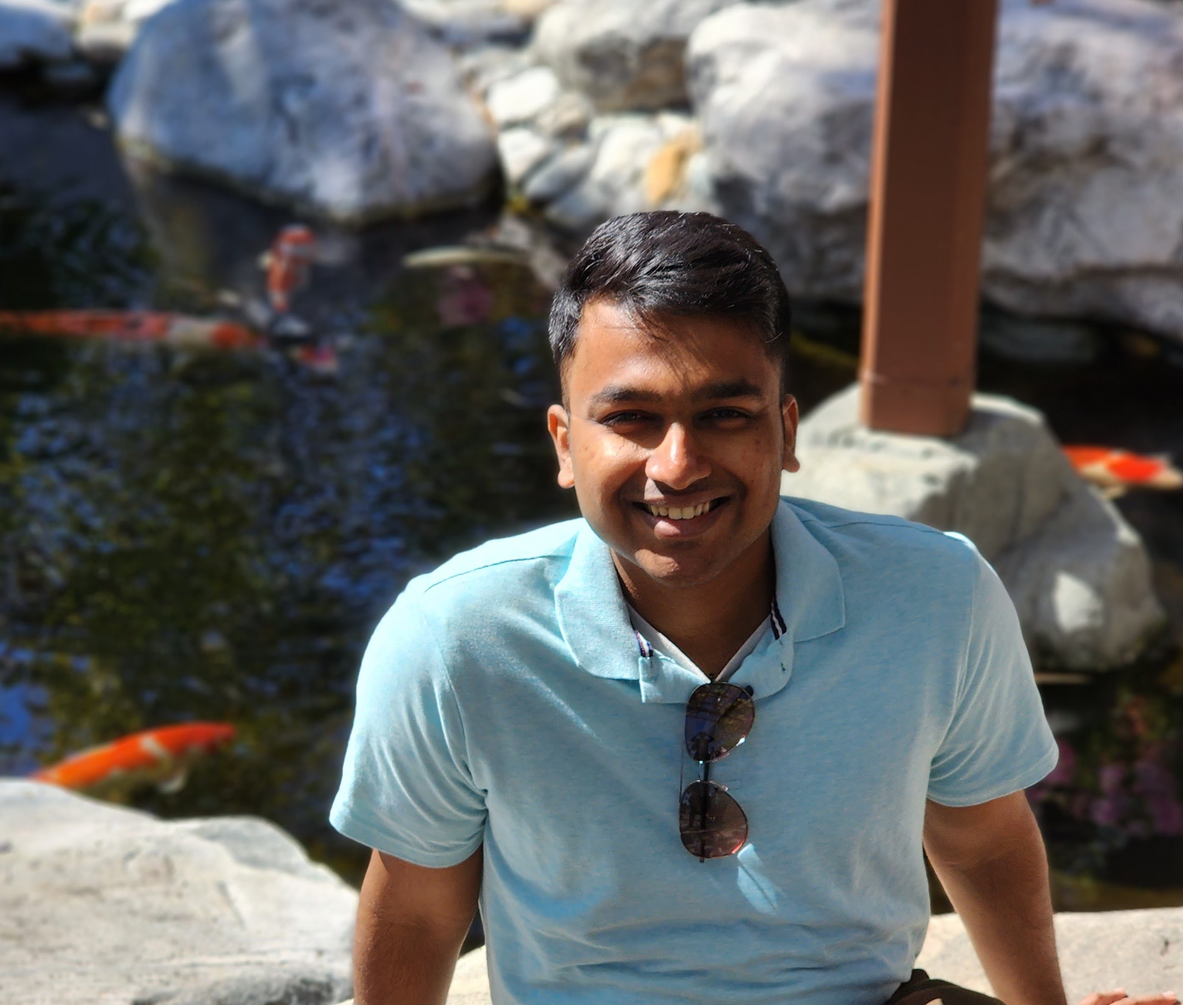
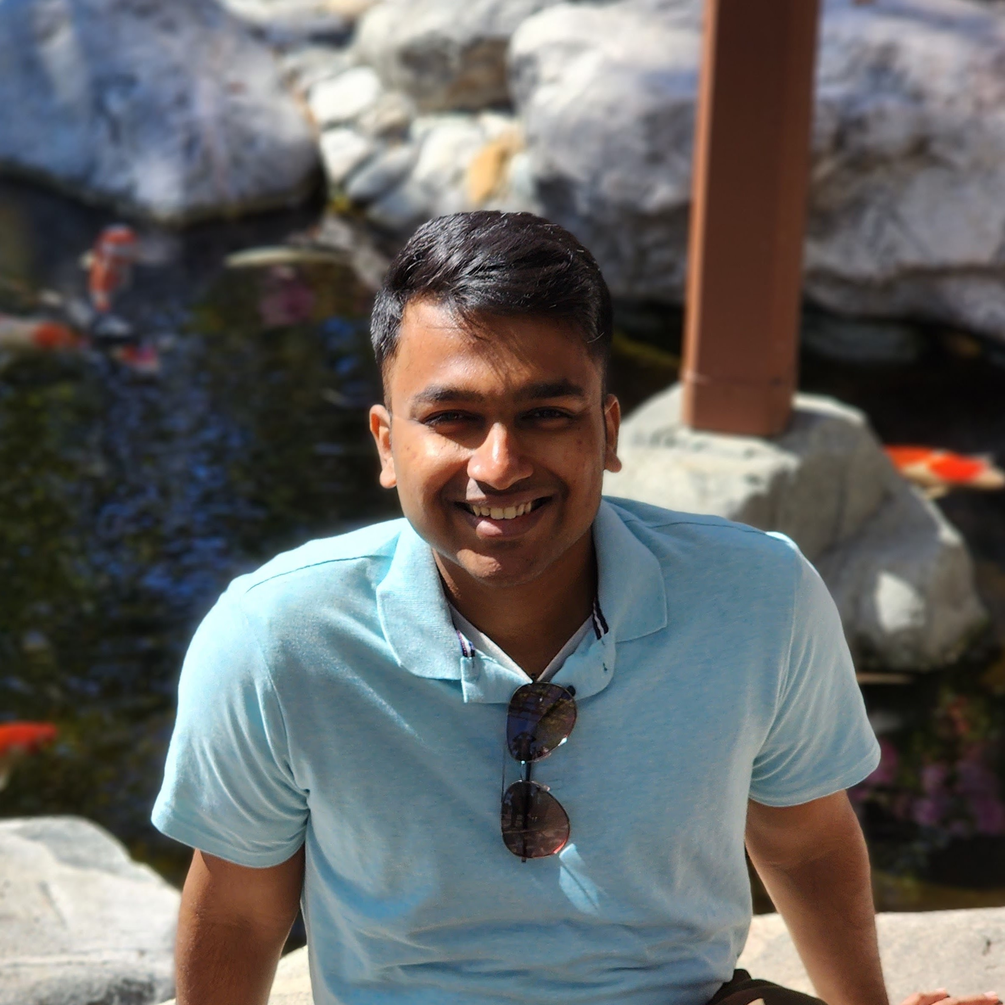
fix some image ratio and extension

diff --git a/_staffers/GiorgiaNicolaou.md b/_staffers/GiorgiaNicolaou.md
@@ -3,7 +3,7 @@ name: Giorgia Nicolaou
 role: TA
 pronouns: she/her
 email: gnicolaou@ucsd.edu
-photo: assets/images/GiorgiaNicolaou.HEIC
+photo: assets/images/GiorgiaNicolaou.jpg
 ---
 
 Hi everyone! I’m Giorgia, a second year graduate student in HDSI. I’m originally from San Diego and loved it so much I had to come back for grad school! Outside of academics I spend most of my time cooking, hanging out with friends, and practicing yoga. I look forward to meeting and working with everyone in DSC 106!
